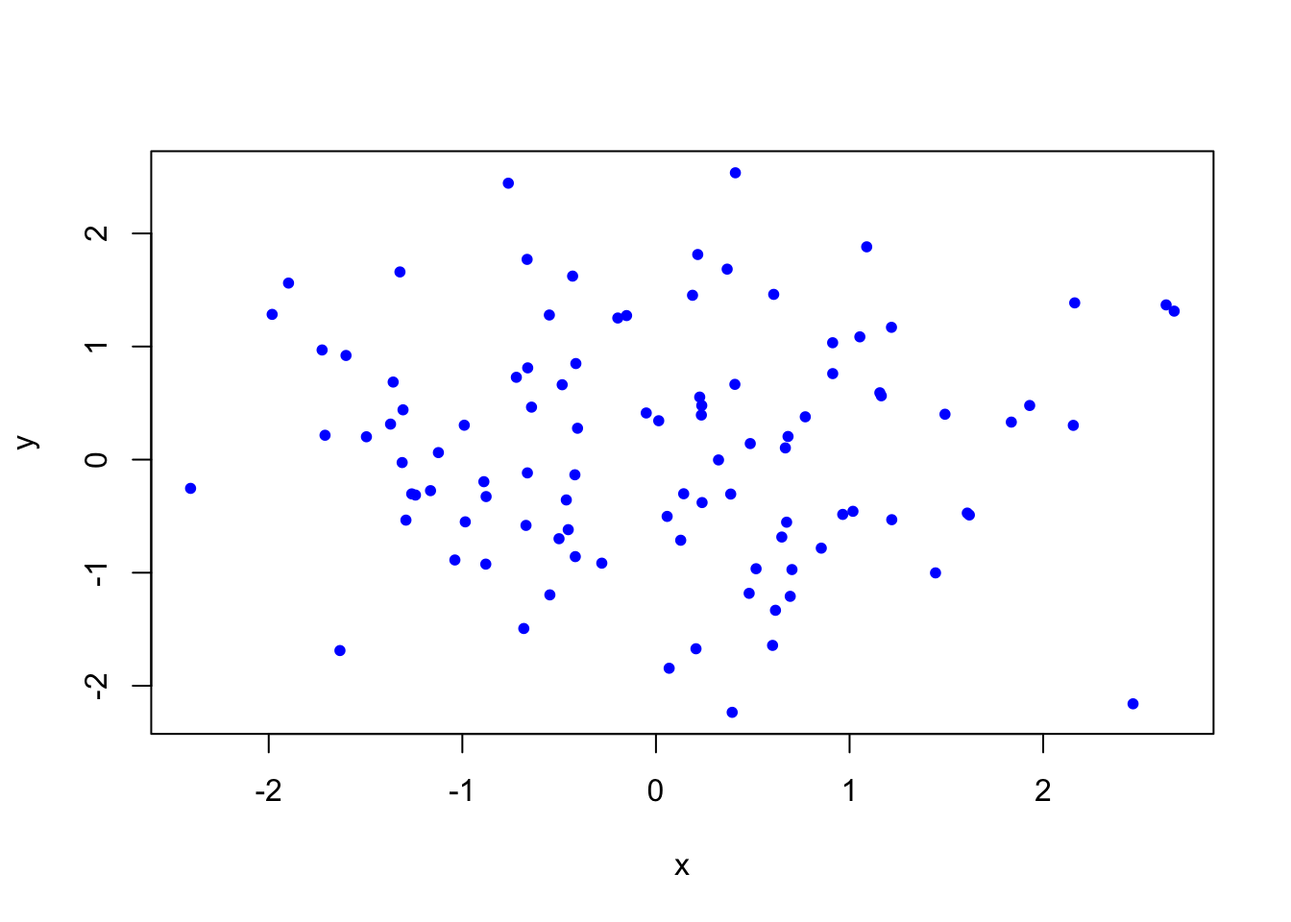
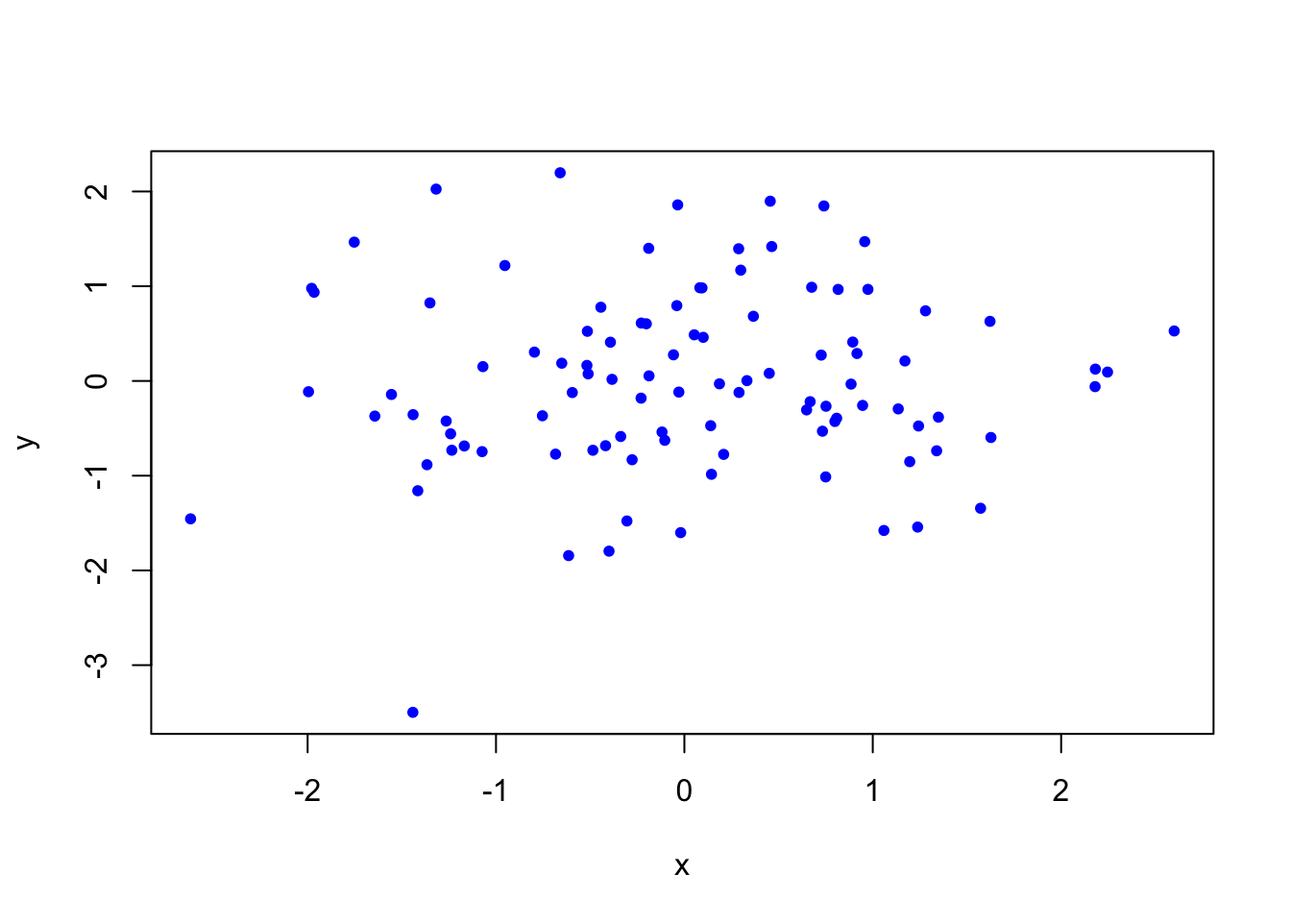
Add files via upload

diff --git a/assignment2.html b/assignment2.html
@@ -20,6 +20,69 @@ ul.task-list li input[type="checkbox"] {
   margin: 0 0.8em 0.2em -1.6em;
   vertical-align: middle;
 }
+pre > code.sourceCode { white-space: pre; position: relative; }
+pre > code.sourceCode > span { display: inline-block; line-height: 1.25; }
+pre > code.sourceCode > span:empty { height: 1.2em; }
+.sourceCode { overflow: visible; }
+code.sourceCode > span { color: inherit; text-decoration: inherit; }
+div.sourceCode { margin: 1em 0; }
+pre.sourceCode { margin: 0; }
+@media screen {
+div.sourceCode { overflow: auto; }
+}
+@media print {
+pre > code.sourceCode { white-space: pre-wrap; }
+pre > code.sourceCode > span { text-indent: -5em; padding-left: 5em; }
+}
+pre.numberSource code
+  { counter-reset: source-line 0; }
+pre.numberSource code > span
+  { position: relative; left: -4em; counter-increment: source-line; }
+pre.numberSource code > span > a:first-child::before
+  { content: counter(source-line);
+    position: relative; left: -1em; text-align: right; vertical-align: baseline;
+    border: none; display: inline-block;
+    -webkit-touch-callout: none; -webkit-user-select: none;
+    -khtml-user-select: none; -moz-user-select: none;
+    -ms-user-select: none; user-select: none;
+    padding: 0 4px; width: 4em;
+    color: #aaaaaa;
+  }
+pre.numberSource { margin-left: 3em; border-left: 1px solid #aaaaaa;  padding-left: 4px; }
+div.sourceCode
+  {   }
+@media screen {
+pre > code.sourceCode > span > a:first-child::before { text-decoration: underline; }
+}
+code span.al { color: #ff0000; font-weight: bold; } /* Alert */
+code span.an { color: #60a0b0; font-weight: bold; font-style: italic; } /* Annotation */
+code span.at { color: #7d9029; } /* Attribute */
+code span.bn { color: #40a070; } /* BaseN */
+code span.bu { color: #008000; } /* BuiltIn */
+code span.cf { color: #007020; font-weight: bold; } /* ControlFlow */
+code span.ch { color: #4070a0; } /* Char */
+code span.cn { color: #880000; } /* Constant */
+code span.co { color: #60a0b0; font-style: italic; } /* Comment */
+code span.cv { color: #60a0b0; font-weight: bold; font-style: italic; } /* CommentVar */
+code span.do { color: #ba2121; font-style: italic; } /* Documentation */
+code span.dt { color: #902000; } /* DataType */
+code span.dv { color: #40a070; } /* DecVal */
+code span.er { color: #ff0000; font-weight: bold; } /* Error */
+code span.ex { } /* Extension */
+code span.fl { color: #40a070; } /* Float */
+code span.fu { color: #06287e; } /* Function */
+code span.im { color: #008000; font-weight: bold; } /* Import */
+code span.in { color: #60a0b0; font-weight: bold; font-style: italic; } /* Information */
+code span.kw { color: #007020; font-weight: bold; } /* Keyword */
+code span.op { color: #666666; } /* Operator */
+code span.ot { color: #007020; } /* Other */
+code span.pp { color: #bc7a00; } /* Preprocessor */
+code span.sc { color: #4070a0; } /* SpecialChar */
+code span.ss { color: #bb6688; } /* SpecialString */
+code span.st { color: #4070a0; } /* String */
+code span.va { color: #19177c; } /* Variable */
+code span.vs { color: #4070a0; } /* VerbatimString */
+code span.wa { color: #60a0b0; font-weight: bold; font-style: italic; } /* Warning */
 </style>
 
 
@@ -136,7 +199,13 @@ ul.task-list li input[type="checkbox"] {
 <!-- sidebar -->
 <!-- margin-sidebar -->
     <div id="quarto-margin-sidebar" class="sidebar margin-sidebar">
-        
+        <nav id="TOC" role="doc-toc" class="toc-active">
+    <h2 id="toc-title">On this page</h2>
+   
+  <ul>
+  <li><a href="#explanatory-data-analysis-on-teds2016-dataset" id="toc-explanatory-data-analysis-on-teds2016-dataset" class="nav-link active" data-scroll-target="#explanatory-data-analysis-on-teds2016-dataset"><u><strong>Explanatory Data Analysis on TEDS2016 Dataset</strong></u></a></li>
+  </ul>
+</nav>
     </div>
 <!-- main -->
 <main class="content" id="quarto-document-content">
@@ -158,9 +227,73 @@ ul.task-list li input[type="checkbox"] {
 
 </header>
 
-<p>Explanatory Data Analysis on TEDS2016 Dataset</p>
+<section id="explanatory-data-analysis-on-teds2016-dataset" class="level2">
+<h2 class="anchored" data-anchor-id="explanatory-data-analysis-on-teds2016-dataset"><u><strong>Explanatory Data Analysis on TEDS2016 Dataset</strong></u></h2>
+<div class="cell">
+<div class="sourceCode cell-code" id="cb1"><pre class="sourceCode r code-with-copy"><code class="sourceCode r"><span id="cb1-1"><a href="#cb1-1" aria-hidden="true" tabindex="-1"></a><span class="fu">library</span>(haven)</span>
+<span id="cb1-2"><a href="#cb1-2" aria-hidden="true" tabindex="-1"></a><span class="fu">library</span>(tidyverse)</span></code><button title="Copy to Clipboard" class="code-copy-button"><i class="bi"></i></button></pre></div>
+<div class="cell-output cell-output-stderr">
+<pre><code>── Attaching packages ─────────────────────────────────────── tidyverse 1.3.2 ──
+✔ ggplot2 3.4.0     ✔ purrr   1.0.1
+✔ tibble  3.1.8     ✔ dplyr   1.1.0
+✔ tidyr   1.3.0     ✔ stringr 1.5.0
+✔ readr   2.1.3     ✔ forcats 1.0.0
+── Conflicts ────────────────────────────────────────── tidyverse_conflicts() ──
+✖ dplyr::filter() masks stats::filter()
+✖ dplyr::lag()    masks stats::lag()</code></pre>
+</div>
+<div class="sourceCode cell-code" id="cb3"><pre class="sourceCode r code-with-copy"><code class="sourceCode r"><span id="cb3-1"><a href="#cb3-1" aria-hidden="true" tabindex="-1"></a>TEDS_2016 <span class="ot">&lt;-</span> </span>
+<span id="cb3-2"><a href="#cb3-2" aria-hidden="true" tabindex="-1"></a><span class="fu">read_stata</span>(<span class="st">"https://github.com/datageneration/home/blob/master/DataProgramming/data/TEDS_2016.dta?raw=true"</span>)</span></code><button title="Copy to Clipboard" class="code-copy-button"><i class="bi"></i></button></pre></div>
+</div>
+<p>The problem with the dataset is that there are missing values throughout the various variables. In the “R for Data Science” book, the recommendation for unusual values in a dataset is to replace them with missing values with a NA tag. In our case we are already dealing with missing values and so R will exclude them from analysis. Another problem is that many variables that should be continuous or categorical are coded with numbers which is hard to understand the meaning for the variables. I think the meaning for the labels are in the website for the dataset, however, it would be nice to have some key.</p>
+<section id="explore-the-relationship-between-tondu-and-other-variables-including-female-dpp-age-income-edu-taiwanese-and-econ_worse.-what-methods-would-you-use-how-about-the-votetsai-variable-vote-for-dpp-candidate-tsai-ing-wen" class="level4">
+<h4 class="anchored" data-anchor-id="explore-the-relationship-between-tondu-and-other-variables-including-female-dpp-age-income-edu-taiwanese-and-econ_worse.-what-methods-would-you-use-how-about-the-votetsai-variable-vote-for-dpp-candidate-tsai-ing-wen"><strong>Explore the relationship between Tondu and other variables including female, DPP, age, income, edu, Taiwanese and Econ_worse. What methods would you use? How about the votetsai variable (vote for DPP candidate Tsai Ing-wen)?</strong></h4>
+<div class="cell">
+<div class="sourceCode cell-code" id="cb4"><pre class="sourceCode r code-with-copy"><code class="sourceCode r"><span id="cb4-1"><a href="#cb4-1" aria-hidden="true" tabindex="-1"></a><span class="co"># The Tondu variable indicates position on unification and independence</span></span>
+<span id="cb4-2"><a href="#cb4-2" aria-hidden="true" tabindex="-1"></a>TEDS_2016<span class="sc">$</span>Tondu<span class="ot">&lt;-</span><span class="fu">factor</span>(TEDS_2016<span class="sc">$</span>Tondu,<span class="at">labels=</span><span class="fu">c</span>(<span class="st">"Unification now"</span>,<span class="st">"Status quo, unif. in future"</span>,<span class="st">"Status quo, decide later"</span>,<span class="st">"Status quo forever"</span>, <span class="st">"Status quo, indep. in future"</span>, <span class="st">"Independence now"</span>,<span class="st">"No response"</span>))</span>
+<span id="cb4-3"><a href="#cb4-3" aria-hidden="true" tabindex="-1"></a></span>
+<span id="cb4-4"><a href="#cb4-4" aria-hidden="true" tabindex="-1"></a><span class="fu">table</span>(TEDS_2016<span class="sc">$</span>Tondu)</span></code><button title="Copy to Clipboard" class="code-copy-button"><i class="bi"></i></button></pre></div>
+<div class="cell-output cell-output-stdout">
+<pre><code>
+             Unification now  Status quo, unif. in future 
+                          27                          180 
+    Status quo, decide later           Status quo forever 
+                         546                          328 
+Status quo, indep. in future             Independence now 
+                         380                          108 
+                 No response 
+                         121 </code></pre>
+</div>
+</div>
+<div class="cell">
+<div class="sourceCode cell-code" id="cb6"><pre class="sourceCode r code-with-copy"><code class="sourceCode r"><span id="cb6-1"><a href="#cb6-1" aria-hidden="true" tabindex="-1"></a><span class="co"># female variable</span></span>
+<span id="cb6-2"><a href="#cb6-2" aria-hidden="true" tabindex="-1"></a>TEDS_2016<span class="sc">$</span>female <span class="ot">&lt;-</span> <span class="fu">as.factor</span>(TEDS_2016<span class="sc">$</span>female)</span>
+<span id="cb6-3"><a href="#cb6-3" aria-hidden="true" tabindex="-1"></a><span class="fu">ggplot</span>(TEDS_2016, <span class="fu">aes</span>(Tondu, <span class="at">fill =</span> female)) <span class="sc">+</span></span>
+<span id="cb6-4"><a href="#cb6-4" aria-hidden="true" tabindex="-1"></a>  <span class="fu">geom_bar</span>() <span class="sc">+</span></span>
+<span id="cb6-5"><a href="#cb6-5" aria-hidden="true" tabindex="-1"></a>  <span class="fu">theme</span>(<span class="at">axis.text.x =</span> <span class="fu">element_text</span>(<span class="at">angle =</span> <span class="dv">90</span>))</span></code><button title="Copy to Clipboard" class="code-copy-button"><i class="bi"></i></button></pre></div>
+<div class="cell-output-display">
+<p><img src="assignment2_files/figure-html/unnamed-chunk-3-1.png" class="img-fluid" width="672"></p>
+</div>
+</div>
+<p>The methods that can be used to explore the variables such as female, DPP, age, votetsai, etc. are utilizing various types of charts and graphs in ggplot such as a bar chart (geom_bar) as shown above for the female variable.</p>
+</section>
+<section id="frequency-table-for-tondu-variable" class="level4">
+<h4 class="anchored" data-anchor-id="frequency-table-for-tondu-variable"><strong>Frequency Table for Tondu variable</strong></h4>
+<div class="cell">
+<div class="sourceCode cell-code" id="cb7"><pre class="sourceCode r code-with-copy"><code class="sourceCode r"><span id="cb7-1"><a href="#cb7-1" aria-hidden="true" tabindex="-1"></a><span class="fu">ggplot</span>(TEDS_2016, <span class="fu">aes</span>(Tondu)) <span class="sc">+</span></span>
+<span id="cb7-2"><a href="#cb7-2" aria-hidden="true" tabindex="-1"></a>  <span class="fu">geom_bar</span>(<span class="at">fill=</span> <span class="st">"lightgreen"</span>) <span class="sc">+</span></span>
+<span id="cb7-3"><a href="#cb7-3" aria-hidden="true" tabindex="-1"></a>  <span class="fu">xlab</span>(<span class="cn">NULL</span>) <span class="sc">+</span></span>
+<span id="cb7-4"><a href="#cb7-4" aria-hidden="true" tabindex="-1"></a>  <span class="fu">ylab</span>(<span class="st">"Total responses"</span>) <span class="sc">+</span></span>
+<span id="cb7-5"><a href="#cb7-5" aria-hidden="true" tabindex="-1"></a>  <span class="fu">theme_bw</span>() <span class="sc">+</span></span>
+<span id="cb7-6"><a href="#cb7-6" aria-hidden="true" tabindex="-1"></a>  <span class="fu">theme</span>(<span class="at">axis.text.x =</span> <span class="fu">element_text</span>(<span class="at">angle =</span> <span class="dv">90</span>))</span></code><button title="Copy to Clipboard" class="code-copy-button"><i class="bi"></i></button></pre></div>
+<div class="cell-output-display">
+<p><img src="assignment2_files/figure-html/unnamed-chunk-4-1.png" class="img-fluid" width="672"></p>
+</div>
+</div>
 
 
+</section>
+</section>
 
 </main> <!-- /main -->
 <script id="quarto-html-after-body" type="application/javascript">

diff --git a/Lab01.html b/Lab01.html
@@ -263,11 +263,12 @@ code span.wa { color: #60a0b0; font-weight: bold; font-style: italic; } /* Warni
 <section id="using-function" class="level2">
 <h2 class="anchored" data-anchor-id="using-function">Using function</h2>
 <div class="cell">
-<div class="sourceCode cell-code" id="cb6"><pre class="sourceCode r code-with-copy"><code class="sourceCode r"><span id="cb6-1"><a href="#cb6-1" aria-hidden="true" tabindex="-1"></a><span class="fu">length</span>(x)  <span class="co"># What does length() do?</span></span></code><button title="Copy to Clipboard" class="code-copy-button"><i class="bi"></i></button></pre></div>
+<div class="sourceCode cell-code" id="cb6"><pre class="sourceCode r code-with-copy"><code class="sourceCode r"><span id="cb6-1"><a href="#cb6-1" aria-hidden="true" tabindex="-1"></a><span class="fu">length</span>(x)  <span class="co"># What does length() do? </span></span></code><button title="Copy to Clipboard" class="code-copy-button"><i class="bi"></i></button></pre></div>
 <div class="cell-output cell-output-stdout">
 <pre><code>[1] 3</code></pre>
 </div>
-<div class="sourceCode cell-code" id="cb8"><pre class="sourceCode r code-with-copy"><code class="sourceCode r"><span id="cb8-1"><a href="#cb8-1" aria-hidden="true" tabindex="-1"></a><span class="fu">length</span>(y)</span></code><button title="Copy to Clipboard" class="code-copy-button"><i class="bi"></i></button></pre></div>
+<div class="sourceCode cell-code" id="cb8"><pre class="sourceCode r code-with-copy"><code class="sourceCode r"><span id="cb8-1"><a href="#cb8-1" aria-hidden="true" tabindex="-1"></a><span class="co"># length() gets the latest length of the list, vector, etc.</span></span>
+<span id="cb8-2"><a href="#cb8-2" aria-hidden="true" tabindex="-1"></a><span class="fu">length</span>(y)</span></code><button title="Copy to Clipboard" class="code-copy-button"><i class="bi"></i></button></pre></div>
 <div class="cell-output cell-output-stdout">
 <pre><code>[1] 3</code></pre>
 </div>
@@ -289,7 +290,8 @@ code span.wa { color: #60a0b0; font-weight: bold; font-style: italic; } /* Warni
 <div class="cell-output cell-output-stdout">
 <pre><code>character(0)</code></pre>
 </div>
-<div class="sourceCode cell-code" id="cb16"><pre class="sourceCode r code-with-copy"><code class="sourceCode r"><span id="cb16-1"><a href="#cb16-1" aria-hidden="true" tabindex="-1"></a><span class="co"># rm(ls()) # Danger! What does this do?  Not recommended!</span></span></code><button title="Copy to Clipboard" class="code-copy-button"><i class="bi"></i></button></pre></div>
+<div class="sourceCode cell-code" id="cb16"><pre class="sourceCode r code-with-copy"><code class="sourceCode r"><span id="cb16-1"><a href="#cb16-1" aria-hidden="true" tabindex="-1"></a><span class="co"># rm(ls()) # Danger! What does this do?  Not recommended!</span></span>
+<span id="cb16-2"><a href="#cb16-2" aria-hidden="true" tabindex="-1"></a><span class="co"># rm(list=ls()) removes all objects in workspace</span></span></code><button title="Copy to Clipboard" class="code-copy-button"><i class="bi"></i></button></pre></div>
 </div>
 </section>
 <section id="matrix-operations" class="level2">
@@ -304,13 +306,13 @@ code span.wa { color: #60a0b0; font-weight: bold; font-style: italic; } /* Warni
 [2,]    2    4</code></pre>
 </div>
 <div class="sourceCode cell-code" id="cb19"><pre class="sourceCode r code-with-copy"><code class="sourceCode r"><span id="cb19-1"><a href="#cb19-1" aria-hidden="true" tabindex="-1"></a>x<span class="ot">=</span><span class="fu">matrix</span>(<span class="fu">c</span>(<span class="dv">1</span>,<span class="dv">2</span>,<span class="dv">3</span>,<span class="dv">4</span>),<span class="dv">2</span>,<span class="dv">2</span>)</span>
-<span id="cb19-2"><a href="#cb19-2" aria-hidden="true" tabindex="-1"></a><span class="fu">matrix</span>(<span class="fu">c</span>(<span class="dv">1</span>,<span class="dv">2</span>,<span class="dv">3</span>,<span class="dv">4</span>),<span class="dv">2</span>,<span class="dv">2</span>,<span class="at">byrow=</span><span class="cn">TRUE</span>) <span class="co"># What about byrow=F?</span></span></code><button title="Copy to Clipboard" class="code-copy-button"><i class="bi"></i></button></pre></div>
+<span id="cb19-2"><a href="#cb19-2" aria-hidden="true" tabindex="-1"></a><span class="fu">matrix</span>(<span class="fu">c</span>(<span class="dv">1</span>,<span class="dv">2</span>,<span class="dv">3</span>,<span class="dv">4</span>),<span class="dv">2</span>,<span class="dv">2</span>,<span class="at">byrow=</span>F) <span class="co"># What about byrow=F?</span></span></code><button title="Copy to Clipboard" class="code-copy-button"><i class="bi"></i></button></pre></div>
 <div class="cell-output cell-output-stdout">
 <pre><code>     [,1] [,2]
-[1,]    1    2
-[2,]    3    4</code></pre>
+[1,]    1    3
+[2,]    2    4</code></pre>
 </div>
-<div class="sourceCode cell-code" id="cb21"><pre class="sourceCode r code-with-copy"><code class="sourceCode r"><span id="cb21-1"><a href="#cb21-1" aria-hidden="true" tabindex="-1"></a><span class="fu">sqrt</span>(x) <span class="co"># What does x look like?</span></span></code><button title="Copy to Clipboard" class="code-copy-button"><i class="bi"></i></button></pre></div>
+<div class="sourceCode cell-code" id="cb21"><pre class="sourceCode r code-with-copy"><code class="sourceCode r"><span id="cb21-1"><a href="#cb21-1" aria-hidden="true" tabindex="-1"></a><span class="fu">sqrt</span>(x) <span class="co"># What does x look like? The square root of the values in x</span></span></code><button title="Copy to Clipboard" class="code-copy-button"><i class="bi"></i></button></pre></div>
 <div class="cell-output cell-output-stdout">
 <pre><code>         [,1]     [,2]
 [1,] 1.000000 1.732051
@@ -328,7 +330,7 @@ code span.wa { color: #60a0b0; font-weight: bold; font-style: italic; } /* Warni
 <span id="cb25-4"><a href="#cb25-4" aria-hidden="true" tabindex="-1"></a></span>
 <span id="cb25-5"><a href="#cb25-5" aria-hidden="true" tabindex="-1"></a><span class="fu">cor</span>(x,y) <span class="co"># Correlation of x and y</span></span></code><button title="Copy to Clipboard" class="code-copy-button"><i class="bi"></i></button></pre></div>
 <div class="cell-output cell-output-stdout">
-<pre><code>[1] 0.9938721</code></pre>
+<pre><code>[1] 0.9963247</code></pre>
 </div>
 <div class="sourceCode cell-code" id="cb27"><pre class="sourceCode r code-with-copy"><code class="sourceCode r"><span id="cb27-1"><a href="#cb27-1" aria-hidden="true" tabindex="-1"></a><span class="fu">set.seed</span>(<span class="dv">1303</span>) <span class="co"># Set the seed for Random Number Generator (RNG) to generate values that are reproducible.</span></span>
 <span id="cb27-2"><a href="#cb27-2" aria-hidden="true" tabindex="-1"></a><span class="fu">rnorm</span>(<span class="dv">50</span>)</span></code><button title="Copy to Clipboard" class="code-copy-button"><i class="bi"></i></button></pre></div>
@@ -344,7 +346,7 @@ code span.wa { color: #60a0b0; font-weight: bold; font-style: italic; } /* Warni
 [41]  0.2640073322  0.6321868074 -1.3306509858  0.0268888182  1.0406363208
 [46]  1.3120237985 -0.0300020767 -0.2500257125  0.0234144857  1.6598706557</code></pre>
 </div>
-<div class="sourceCode cell-code" id="cb29"><pre class="sourceCode r code-with-copy"><code class="sourceCode r"><span id="cb29-1"><a href="#cb29-1" aria-hidden="true" tabindex="-1"></a><span class="fu">set.seed</span>(<span class="dv">3</span>) <span class="co"># Try different seeds?</span></span>
+<div class="sourceCode cell-code" id="cb29"><pre class="sourceCode r code-with-copy"><code class="sourceCode r"><span id="cb29-1"><a href="#cb29-1" aria-hidden="true" tabindex="-1"></a><span class="fu">set.seed</span>(<span class="dv">5</span>) <span class="co"># Try different seeds?</span></span>
 <span id="cb29-2"><a href="#cb29-2" aria-hidden="true" tabindex="-1"></a>y<span class="ot">=</span><span class="fu">rnorm</span>(<span class="dv">100</span>)</span></code><button title="Copy to Clipboard" class="code-copy-button"><i class="bi"></i></button></pre></div>
 </div>
 </section>
@@ -353,19 +355,19 @@ code span.wa { color: #60a0b0; font-weight: bold; font-style: italic; } /* Warni
 <div class="cell">
 <div class="sourceCode cell-code" id="cb30"><pre class="sourceCode r code-with-copy"><code class="sourceCode r"><span id="cb30-1"><a href="#cb30-1" aria-hidden="true" tabindex="-1"></a><span class="fu">mean</span>(y)</span></code><button title="Copy to Clipboard" class="code-copy-button"><i class="bi"></i></button></pre></div>
 <div class="cell-output cell-output-stdout">
-<pre><code>[1] 0.01103557</code></pre>
+<pre><code>[1] 0.03163502</code></pre>
 </div>
 <div class="sourceCode cell-code" id="cb32"><pre class="sourceCode r code-with-copy"><code class="sourceCode r"><span id="cb32-1"><a href="#cb32-1" aria-hidden="true" tabindex="-1"></a><span class="fu">var</span>(y)</span></code><button title="Copy to Clipboard" class="code-copy-button"><i class="bi"></i></button></pre></div>
 <div class="cell-output cell-output-stdout">
-<pre><code>[1] 0.7328675</code></pre>
+<pre><code>[1] 0.8935626</code></pre>
 </div>
 <div class="sourceCode cell-code" id="cb34"><pre class="sourceCode r code-with-copy"><code class="sourceCode r"><span id="cb34-1"><a href="#cb34-1" aria-hidden="true" tabindex="-1"></a><span class="fu">sqrt</span>(<span class="fu">var</span>(y))</span></code><button title="Copy to Clipboard" class="code-copy-button"><i class="bi"></i></button></pre></div>
 <div class="cell-output cell-output-stdout">
-<pre><code>[1] 0.8560768</code></pre>
+<pre><code>[1] 0.9452844</code></pre>
 </div>
 <div class="sourceCode cell-code" id="cb36"><pre class="sourceCode r code-with-copy"><code class="sourceCode r"><span id="cb36-1"><a href="#cb36-1" aria-hidden="true" tabindex="-1"></a><span class="fu">sd</span>(y)</span></code><button title="Copy to Clipboard" class="code-copy-button"><i class="bi"></i></button></pre></div>
 <div class="cell-output cell-output-stdout">
-<pre><code>[1] 0.8560768</code></pre>
+<pre><code>[1] 0.9452844</code></pre>
 </div>
 </div>
 </section>
@@ -383,7 +385,7 @@ code span.wa { color: #60a0b0; font-weight: bold; font-style: italic; } /* Warni
 <p><img src="Lab01_files/figure-html/unnamed-chunk-6-2.png" class="img-fluid" width="672"></p>
 </div>
 <div class="sourceCode cell-code" id="cb40"><pre class="sourceCode r code-with-copy"><code class="sourceCode r"><span id="cb40-1"><a href="#cb40-1" aria-hidden="true" tabindex="-1"></a><span class="fu">pdf</span>(<span class="st">"Figure01.pdf"</span>) <span class="co"># Save as pdf, add a path or it will be stored on the project directory</span></span>
-<span id="cb40-2"><a href="#cb40-2" aria-hidden="true" tabindex="-1"></a><span class="fu">plot</span>(x,y,<span class="at">pch=</span><span class="dv">20</span>, <span class="at">col=</span><span class="st">"forestgreen"</span>) <span class="co"># Try different colors?</span></span>
+<span id="cb40-2"><a href="#cb40-2" aria-hidden="true" tabindex="-1"></a><span class="fu">plot</span>(x,y,<span class="at">pch=</span><span class="dv">20</span>, <span class="at">col=</span><span class="st">"skyblue"</span>) <span class="co"># Try different colors?</span></span>
 <span id="cb40-3"><a href="#cb40-3" aria-hidden="true" tabindex="-1"></a><span class="fu">dev.off</span>() <span class="co"># Close the file using the dev.off function</span></span></code><button title="Copy to Clipboard" class="code-copy-button"><i class="bi"></i></button></pre></div>
 <div class="cell-output cell-output-stdout">
 <pre><code>quartz_off_screen 

diff --git a/Lab02.html b/Lab02.html
@@ -315,7 +315,7 @@ code span.wa { color: #60a0b0; font-weight: bold; font-style: italic; } /* Warni
 <h2 class="anchored" data-anchor-id="loading-data-from-github">Loading Data from GitHub</h2>
 <div class="cell">
 <div class="sourceCode cell-code" id="cb21"><pre class="sourceCode r code-with-copy"><code class="sourceCode r"><span id="cb21-1"><a href="#cb21-1" aria-hidden="true" tabindex="-1"></a>Auto<span class="ot">=</span><span class="fu">read.table</span>(<span class="st">"https://raw.githubusercontent.com/karlho/knowledgemining/gh-pages/data/Auto.data"</span>)</span>
-<span id="cb21-2"><a href="#cb21-2" aria-hidden="true" tabindex="-1"></a><span class="co"># fix(Auto) # Starting the X11 R data editor</span></span>
+<span id="cb21-2"><a href="#cb21-2" aria-hidden="true" tabindex="-1"></a><span class="co">#fix(Auto) # Starting the X11 R data editor</span></span>
 <span id="cb21-3"><a href="#cb21-3" aria-hidden="true" tabindex="-1"></a>Auto<span class="ot">=</span><span class="fu">read.table</span>(<span class="st">"https://raw.githubusercontent.com/karlho/knowledgemining/gh-pages/data/Auto.data"</span>,<span class="at">header=</span>T,<span class="at">na.strings=</span><span class="st">"?"</span>)</span>
 <span id="cb21-4"><a href="#cb21-4" aria-hidden="true" tabindex="-1"></a><span class="co"># fix(Auto)</span></span>
 <span id="cb21-5"><a href="#cb21-5" aria-hidden="true" tabindex="-1"></a>Auto<span class="ot">=</span><span class="fu">read.csv</span>(<span class="st">"https://raw.githubusercontent.com/karlho/knowledgemining/gh-pages/data/Auto.csv"</span>,<span class="at">header=</span>T,<span class="at">na.strings=</span><span class="st">"?"</span>)</span>
@@ -449,7 +449,7 @@ code span.wa { color: #60a0b0; font-weight: bold; font-style: italic; } /* Warni
 <div class="cell-output cell-output-stdout">
 <pre><code>
 The downloaded binary packages are in
-    /var/folders/8h/3hlv7h096cn4r0v7n761qn7m0000gn/T//Rtmpz0HtyH/downloaded_packages</code></pre>
+    /var/folders/8h/3hlv7h096cn4r0v7n761qn7m0000gn/T//RtmpcQjXq7/downloaded_packages</code></pre>
 </div>
 <div class="sourceCode cell-code" id="cb49"><pre class="sourceCode r code-with-copy"><code class="sourceCode r"><span id="cb49-1"><a href="#cb49-1" aria-hidden="true" tabindex="-1"></a><span class="fu">lapply</span>(ptbu, require, <span class="at">character.only =</span> <span class="cn">TRUE</span>)</span></code><button title="Copy to Clipboard" class="code-copy-button"><i class="bi"></i></button></pre></div>
 <div class="cell-output cell-output-stderr">
@@ -558,12 +558,13 @@ lstat       -1.026148 -0.8739505</code></pre>
 2 25.05335 12.827626 37.27907
 3 20.30310  8.077742 32.52846</code></pre>
 </div>
-<div class="sourceCode cell-code" id="cb73"><pre class="sourceCode r code-with-copy"><code class="sourceCode r"><span id="cb73-1"><a href="#cb73-1" aria-hidden="true" tabindex="-1"></a><span class="co"># What is the differnce between "conference" and "prediction" difference?</span></span>
-<span id="cb73-2"><a href="#cb73-2" aria-hidden="true" tabindex="-1"></a></span>
-<span id="cb73-3"><a href="#cb73-3" aria-hidden="true" tabindex="-1"></a><span class="fu">plot</span>(lstat,medv)</span>
-<span id="cb73-4"><a href="#cb73-4" aria-hidden="true" tabindex="-1"></a><span class="fu">abline</span>(lm.fit)</span>
-<span id="cb73-5"><a href="#cb73-5" aria-hidden="true" tabindex="-1"></a><span class="fu">abline</span>(lm.fit,<span class="at">lwd=</span><span class="dv">3</span>)</span>
-<span id="cb73-6"><a href="#cb73-6" aria-hidden="true" tabindex="-1"></a><span class="fu">abline</span>(lm.fit,<span class="at">lwd=</span><span class="dv">3</span>,<span class="at">col=</span><span class="st">"red"</span>)</span></code><button title="Copy to Clipboard" class="code-copy-button"><i class="bi"></i></button></pre></div>
+<div class="sourceCode cell-code" id="cb73"><pre class="sourceCode r code-with-copy"><code class="sourceCode r"><span id="cb73-1"><a href="#cb73-1" aria-hidden="true" tabindex="-1"></a><span class="co"># What is the difference between "conference" and "prediction" difference?</span></span>
+<span id="cb73-2"><a href="#cb73-2" aria-hidden="true" tabindex="-1"></a><span class="co"># A prediction interval reflects the uncertainty around a single value, while a confidence interval reflects the uncertainty around the mean prediction values. </span></span>
+<span id="cb73-3"><a href="#cb73-3" aria-hidden="true" tabindex="-1"></a></span>
+<span id="cb73-4"><a href="#cb73-4" aria-hidden="true" tabindex="-1"></a><span class="fu">plot</span>(lstat,medv)</span>
+<span id="cb73-5"><a href="#cb73-5" aria-hidden="true" tabindex="-1"></a><span class="fu">abline</span>(lm.fit)</span>
+<span id="cb73-6"><a href="#cb73-6" aria-hidden="true" tabindex="-1"></a><span class="fu">abline</span>(lm.fit,<span class="at">lwd=</span><span class="dv">3</span>)</span>
+<span id="cb73-7"><a href="#cb73-7" aria-hidden="true" tabindex="-1"></a><span class="fu">abline</span>(lm.fit,<span class="at">lwd=</span><span class="dv">3</span>,<span class="at">col=</span><span class="st">"red"</span>)</span></code><button title="Copy to Clipboard" class="code-copy-button"><i class="bi"></i></button></pre></div>
 <div class="cell-output-display">
 <p><img src="Lab02_files/figure-html/unnamed-chunk-4-1.png" class="img-fluid" width="672"></p>
 </div>
